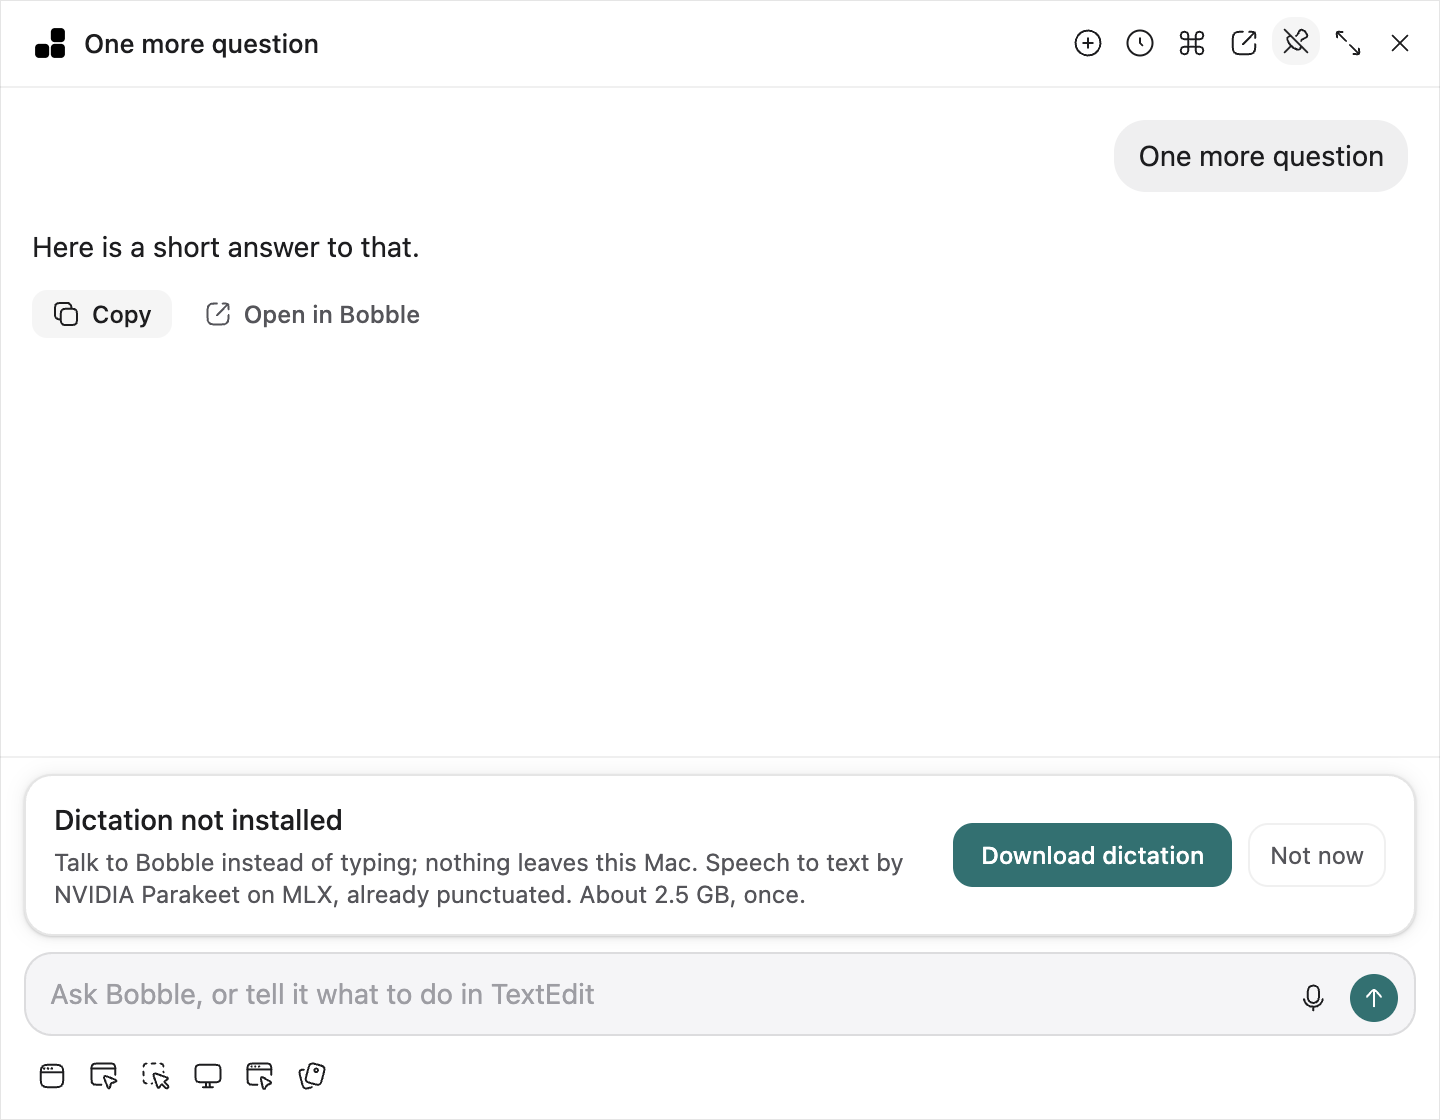
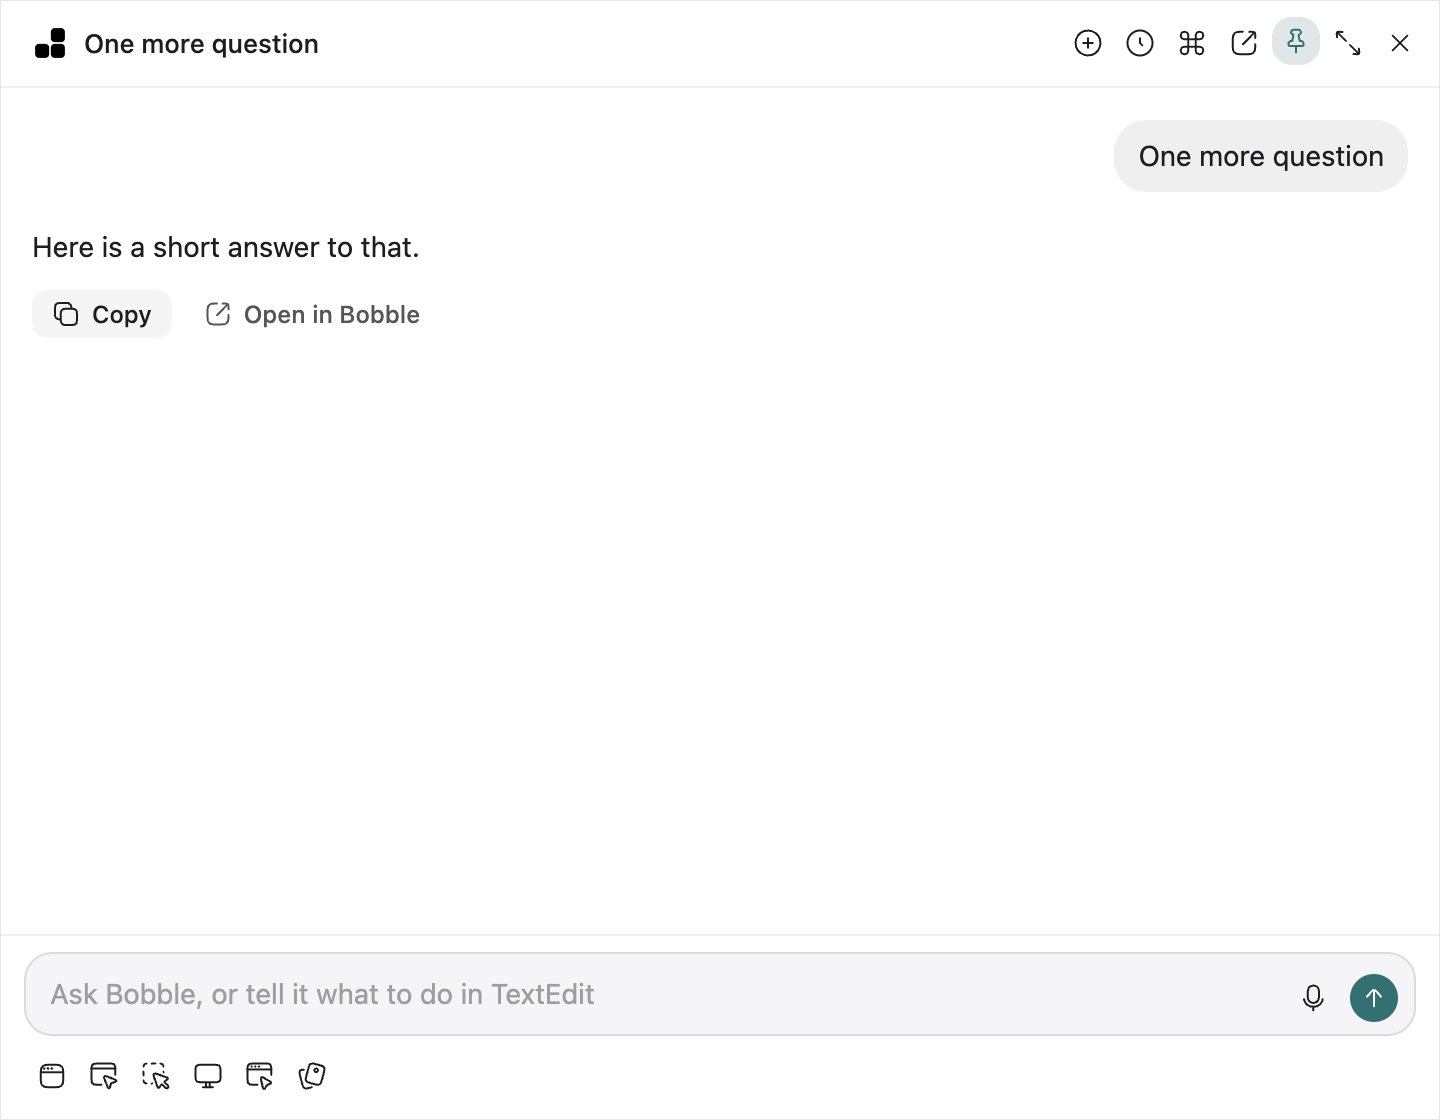
quick panel: the microphone goes off with the panel; pin reads as a toggle
- Putting the panel away ends talking: a recording behind a hidden panel
  kept the microphone light on with nothing on screen to stop it, and a
  Download card from one opening followed into the next.
- A second press while a summon is still reading the Mac is the same press;
  a key over an open pick still cancels it (checked first).
- The Mac helper is woken when the panel is made, so the first hotkey's reads
  are not also the helper's start-up.
- Pin shows its state in the accent instead of swapping to a crossed pin.
- The panel's first frame uses the theme's raised surface.

Changed region(s): [[0.0312, 0.7188, 0.625, 0.8125], [0.6562, 0.7188, 0.9375, 0.8125], [0.875, 0.0312, 0.9062, 0.0625]]

diff --git a/apps/desktop/src/quick/QuickPanelApp.tsx b/apps/desktop/src/quick/QuickPanelApp.tsx
@@ -33,7 +33,6 @@ import {
   IconMonitor,
   IconPickWindow,
   IconPin,
-  IconPinOff,
   IconQuill,
   IconShrink,
   IconSpellCheck,
@@ -134,16 +133,26 @@ function Tool({
   onClick,
   children,
   testid,
+  on,
 }: {
   label: string;
   keys?: string;
   onClick: () => void;
   children: ReactNode;
   testid: string;
+  /** A toggle's state: on draws it in the accent, and says so to assistive tech. */
+  on?: boolean;
 }): JSX.Element {
   return (
     <Tooltip label={label} {...(keys !== undefined ? { kbd: keys } : {})}>
-      <IconButton aria-label={label} size="sm" onClick={onClick} data-testid={testid}>
+      <IconButton
+        aria-label={label}
+        size="sm"
+        onClick={onClick}
+        data-testid={testid}
+        {...(on !== undefined ? { 'aria-pressed': on, 'data-on': on ? 'true' : 'false' } : {})}
+        className={on === true ? 'qp-tool-on' : undefined}
+      >
         {children}
       </IconButton>
     </Tooltip>
@@ -424,6 +433,19 @@ function QuickPanel(): JSX.Element {
     markInputActivity('talk');
     dictation.start();
   }, [listening, dictation]);
+
+  /*
+   * PUT AWAY MEANS THE MICROPHONE IS OFF. A recording left running behind a
+   * hidden panel would keep the Mac's microphone light on with nothing on
+   * screen to stop it; a Download card or a problem from last time does not
+   * belong to the next opening either.
+   */
+  const shown = useQuickStore((s) => s.shown);
+  const dictationRef = useRef(dictation);
+  dictationRef.current = dictation;
+  useEffect(() => {
+    if (!shown && dictationRef.current.phase !== 'idle') dictationRef.current.cancel();
+  }, [shown]);
 
   // The global "talk" key: start listening, or stop if already listening.
   // biome-ignore lint/correctness/useExhaustiveDependencies: keyed on the request count
@@ -728,7 +750,8 @@ function QuickPanel(): JSX.Element {
                 <IconExternal size={15} />
               </Tool>
               <Tool
-                label={pinned ? 'Unpin' : 'Pin (stays open)'}
+                on={pinned}
+                label={pinned ? 'Pinned: stays open. Click to unpin' : 'Pin (stays open)'}
                 keys="⌘⇧P"
                 onClick={() => {
                   set({ pinned: !pinned });
@@ -736,7 +759,7 @@ function QuickPanel(): JSX.Element {
                 }}
                 testid="quick-pin"
               >
-                {pinned ? <IconPinOff size={15} /> : <IconPin size={15} />}
+                <IconPin size={15} />
               </Tool>
               <Tool
                 label={size === 'large' ? 'Smaller' : 'Bigger'}

diff --git a/apps/desktop/electron/quick/quick-main.ts b/apps/desktop/electron/quick/quick-main.ts
@@ -238,8 +238,9 @@ function createPanel(): BrowserWindow {
     hasShadow: true,
     roundedCorners: true,
     alwaysOnTop: true,
-    // Painted by the page at once; this only covers the first frame.
-    backgroundColor: nativeTheme.shouldUseDarkColors ? '#262624' : '#faf9f5',
+    // Painted by the page at once; this only covers the first frame (the
+    // theme's raised surface, which is what the panel paints).
+    backgroundColor: nativeTheme.shouldUseDarkColors ? '#1e1e21' : '#ffffff',
     webPreferences: { ...deps.webPreferences, backgroundThrottling: false },
   });
   // On every Space and over full-screen apps. Skipping the process-type
@@ -274,7 +275,12 @@ function createPanel(): BrowserWindow {
 }
 
 async function ensurePanel(): Promise<BrowserWindow> {
-  if (panel === null || panel.isDestroyed()) panel = createPanel();
+  if (panel === null || panel.isDestroyed()) {
+    panel = createPanel();
+    // Wake the Mac helper now, so the first hotkey's reads are not also its
+    // start-up (a no-op in a test run, whose Mac is a stand-in).
+    void mac.accessibility().catch(() => undefined);
+  }
   await panelLoaded;
   return panel;
 }
@@ -340,14 +346,28 @@ async function dismiss(reason: DismissReason): Promise<void> {
  * A hotkey (or a probe's press of one). `summon` toggles; the capture keys go
  * straight to their picture and open the panel with it attached.
  */
+/** A summon still reading the Mac: a second press in that beat is the same press. */
+let summoning = false;
+
 async function summon(action: QuickAction): Promise<void> {
-  const settings = readSettings().quickPanel;
-  if (!settings.enabled) return;
   // A key pressed while an overlay is up means "never mind": the overlay goes.
+  // (Checked first: the summon that opened the overlay is still in flight.)
   if (picking) {
     cancelPick();
     return;
   }
+  if (summoning) return;
+  summoning = true;
+  try {
+    await summonNow(action);
+  } finally {
+    summoning = false;
+  }
+}
+
+async function summonNow(action: QuickAction): Promise<void> {
+  const settings = readSettings().quickPanel;
+  if (!settings.enabled) return;
   if (action === 'summon' && visible) {
     await dismiss('escape');
     return;

diff --git a/packages/ui/src/components/icons.tsx b/packages/ui/src/components/icons.tsx
@@ -71,7 +71,6 @@ import PauseIcon from '@hugeicons/core-free-icons/PauseIcon';
 import PencilEdit01Icon from '@hugeicons/core-free-icons/PencilEdit01Icon';
 import PieChartIcon from '@hugeicons/core-free-icons/PieChartIcon';
 import Pin02Icon from '@hugeicons/core-free-icons/Pin02Icon';
-import PinOffIcon from '@hugeicons/core-free-icons/PinOffIcon';
 import PlayIcon from '@hugeicons/core-free-icons/PlayIcon';
 import Plug01Icon from '@hugeicons/core-free-icons/Plug01Icon';
 import QuillWrite01Icon from '@hugeicons/core-free-icons/QuillWrite01Icon';
@@ -604,10 +603,6 @@ export function IconSpellCheck(props: IconProps) {
 /** Put the answer where the selection was. */
 export function IconReplace(props: IconProps) {
   return <Huge icon={ReplaceIcon} {...props} />;
-}
-
-export function IconPinOff(props: IconProps) {
-  return <Huge icon={PinOffIcon} {...props} />;
 }
 
 /** Make smaller: the arrows of IconExpand, turned inward. */

diff --git a/apps/desktop/src/quick/quick-panel.css b/apps/desktop/src/quick/quick-panel.css
@@ -364,6 +364,12 @@ html.qp-root #root {
   gap: 2px;
 }
 
+/* A toggle that is on (Pin): the accent, quietly. */
+.qp-head-tools .qp-tool-on {
+  background: var(--pd-accent-subtle);
+  color: var(--pd-accent-primary);
+}
+
 .qp-body {
   flex: 1;
   min-height: 0;
